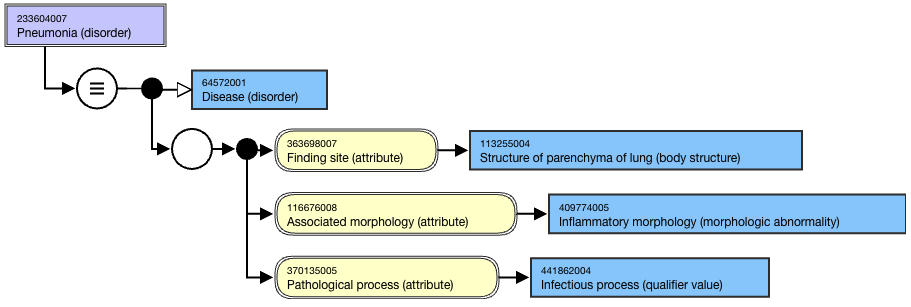
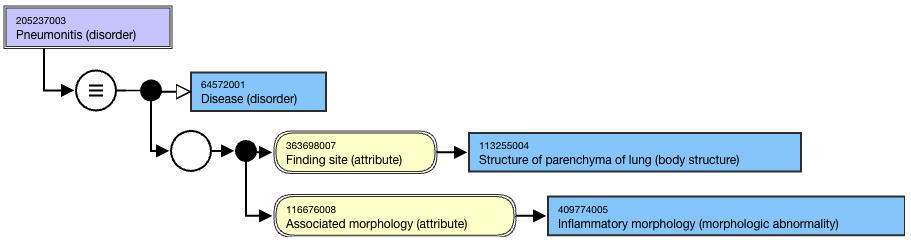
GITBOOK-128: No subject

diff --git a/readme/authoring/general-modeling/proximal-primitive-modeling.md b/readme/authoring/general-modeling/proximal-primitive-modeling.md
@@ -25,7 +25,7 @@ The classifier infers all appropriate proximal supertypes. With sufficiently def
 
       [71388002 | Procedure (procedure)|](http://snomed.info/id/71388002). It has been modeled with one stated supertype and two attribute value pairs in a relationship group.
 
-<figure><img src="../../../.gitbook/assets/image (1) (1) (1) (1) (1) (1) (1).png" alt=""><figcaption><p>Stated view of<a href="http://snomed.info/id/702499000">702499000 | Computed tomography of humerus (procedure)|</a></p></figcaption></figure>
+<figure><img src="../../../.gitbook/assets/image (1) (1) (1) (1) (1) (1) (1) (1).png" alt=""><figcaption><p>Stated view of<a href="http://snomed.info/id/702499000">702499000 | Computed tomography of humerus (procedure)|</a></p></figcaption></figure>
 
 The _inferred_ view shows the logical definition of the concept. By using the stated relationships (for this concept and other concepts currently in the terminology), the classifier infers three defined proximal supertypes:
 
@@ -33,7 +33,7 @@ The _inferred_ view shows the logical definition of the concept. By using the st
 * Computed tomography of upper arm (procedure)
 * Computed tomography of bone (procedure)
 
-<figure><img src="../../../.gitbook/assets/image (1) (1) (1) (1) (1) (1) (1) (1).png" alt=""><figcaption><p>Inferred view of <a href="http://snomed.info/id/702499000">702499000 | Computed tomography of humerus (procedure)|</a></p></figcaption></figure>
+<figure><img src="../../../.gitbook/assets/image (1) (1) (1) (1) (1) (1) (1) (1) (1).png" alt=""><figcaption><p>Inferred view of <a href="http://snomed.info/id/702499000">702499000 | Computed tomography of humerus (procedure)|</a></p></figcaption></figure>
 
 ### Multiple potential primitive supertype concepts <a href="#multiple-potential-primitive-supertype-concepts" id="multiple-potential-primitive-supertype-concepts"></a>
 

diff --git a/readme/authoring/domain-specific-modeling/clinical-finding-and-disorder/clinical-finding-and-disorder-modeling/specific-clinical-finding-and-disorder-modeling/pneumonia-vs-pneumonitis.md b/readme/authoring/domain-specific-modeling/clinical-finding-and-disorder/clinical-finding-and-disorder-modeling/specific-clinical-finding-and-disorder-modeling/pneumonia-vs-pneumonitis.md
@@ -8,11 +8,11 @@ Some concepts may contain a synonym with the other _pneumoni_ - term due to high
 
 Pneumonia is a type of pneumonitis, as inflammation is present in both. The distinguishing feature between the two disorders is the presence of infection in pneumonia. Pneumonia has a Pathological process (attribute) of Infectious process (qualifier value); Pneumonitis does not.
 
-<figure><img src="../../../../../../.gitbook/assets/image.png" alt=""><figcaption></figcaption></figure>
+<figure><img src="../../../../../../.gitbook/assets/image (1).png" alt=""><figcaption></figcaption></figure>
 
 <figure><img src="../../../../../../authoring/clinical-finding-and-disorder/images/225051456.png" alt=""><figcaption><p>Figure:  Stated view of 205237003 |Pneumonitis (disorder)|</p></figcaption></figure>
 
-<figure><img src="../../../../../../.gitbook/assets/image (1).png" alt=""><figcaption></figcaption></figure>
+<figure><img src="../../../../../../.gitbook/assets/image (1) (1).png" alt=""><figcaption></figcaption></figure>
 
 <figure><img src="../../../../../../authoring/clinical-finding-and-disorder/images/225051457.png" alt=""><figcaption><p>Figure:  Stated view of 233604007 |Pneumonia (disorder)|</p></figcaption></figure>
 

diff --git a/readme/authoring/domain-specific-modeling/clinical-finding-and-disorder/clinical-finding-and-disorder-modeling/specific-clinical-finding-and-disorder-modeling/infectious-vs-inflammatory.md b/readme/authoring/domain-specific-modeling/clinical-finding-and-disorder/clinical-finding-and-disorder-modeling/specific-clinical-finding-and-disorder-modeling/infectious-vs-inflammatory.md
@@ -26,6 +26,6 @@ Example of inflammatory disorder _not_ specified as infectious,
 
 [446292002 |Necrotizing inflammation of lymph node (disorder)|](http://snomed.info/id/446292002) (synonym, Necrotizing lymphadenitis) does not specify an infective cause, so it is neither modeled with Causative agent nor Pathological process. The model contains an [|Associated morphology (attribute)|](http://snomed.org/-fictid) and a [|Finding site (attribute)|](http://snomed.org/-fictid).
 
-<figure><img src="../../../../../../.gitbook/assets/image (1) (1).png" alt=""><figcaption></figcaption></figure>
+<figure><img src="../../../../../../.gitbook/assets/image (1) (1) (1).png" alt=""><figcaption></figcaption></figure>
 
 <figure><img src="../../../../../../authoring/clinical-finding-and-disorder/images/174690496.png" alt=""><figcaption><p>Figure: Stated view of 446292002 |Necrotizing inflammation of lymph node (disorder)|</p></figcaption></figure>

diff --git a/readme/authoring/domain-specific-modeling/clinical-finding-and-disorder/clinical-finding-and-disorder-modeling/specific-clinical-finding-and-disorder-modeling/substance-withdrawal-syndrome.md b/readme/authoring/domain-specific-modeling/clinical-finding-and-disorder/clinical-finding-and-disorder-modeling/specific-clinical-finding-and-disorder-modeling/substance-withdrawal-syndrome.md
@@ -8,6 +8,8 @@ For example,
 
 Stated view of 74934004 |Psychoactive substance withdrawal syndrome (disorder)|:
 
-<figure><img src="../../../../../../authoring/clinical-finding-and-disorder/images/174690559.png" alt=""><figcaption><p>Inferred view of 74934004 |Psychoactive substance withdrawal syndrome (disorder)|:</p></figcaption></figure>
+<figure><img src="../../../../../../.gitbook/assets/image.png" alt=""><figcaption></figcaption></figure>
 
-<figure><img src="../../../../../../authoring/clinical-finding-and-disorder/images/174690558.png" alt=""><figcaption></figcaption></figure>
+Inferred view of 74934004 |Psychoactive substance withdrawal syndrome (disorder)|:
+
+<figure><img src="../../../../../../.gitbook/assets/image (48).png" alt=""><figcaption></figcaption></figure>

diff --git a/readme/authoring/domain-specific-modeling/body-structure/index-1/index/anatomy-relating-to-the-spine.md b/readme/authoring/domain-specific-modeling/body-structure/index-1/index/anatomy-relating-to-the-spine.md
@@ -18,7 +18,7 @@ The last concept has been allocated the following definition: This volume includ
 
 To emphasize the different volumes, cross-sections are shown below of (Figure 1) the vertebral column in yellow, and (Figure 2) the larger vertebral column region in amber color.
 
-<figure><img src="../../../../../../.gitbook/assets/image (1) (1) (1) (1) (1).png" alt=""><figcaption><p>Figure 1, Vertebral column</p></figcaption></figure>
+<figure><img src="../../../../../../.gitbook/assets/image (1) (1) (1) (1) (1) (1).png" alt=""><figcaption><p>Figure 1, Vertebral column</p></figcaption></figure>
 
 <figure><img src="../../../../../../.gitbook/assets/image (3) (1).png" alt=""><figcaption><p>Figure 2, Vertebral column region</p></figcaption></figure>
 

diff --git a/readme/authoring/general-naming-conventions/descriptions/definition.md b/readme/authoring/general-naming-conventions/descriptions/definition.md
@@ -30,7 +30,7 @@ For example,
 
 <figure><img src="../../../../authoring/general-naming-conventions/descriptions/images/265618742.png" alt=""><figcaption></figcaption></figure>
 
-<figure><img src="../../../../.gitbook/assets/image (1) (1) (1) (1) (1) (1).png" alt=""><figcaption><p>Definition of 1332358007 |Full schwannomatosis (disorder)| with US and GB English acceptability values.</p></figcaption></figure>
+<figure><img src="../../../../.gitbook/assets/image (1) (1) (1) (1) (1) (1) (1).png" alt=""><figcaption><p>Definition of 1332358007 |Full schwannomatosis (disorder)| with US and GB English acceptability values.</p></figcaption></figure>
 
 ## Consideration for text definition
 

diff --git a/readme/authoring/domain-specific-modeling/clinical-finding-and-disorder/clinical-finding-and-disorder-modeling/specific-clinical-finding-and-disorder-modeling/combining-morphologic-abnormalities.md b/readme/authoring/domain-specific-modeling/clinical-finding-and-disorder/clinical-finding-and-disorder-modeling/specific-clinical-finding-and-disorder-modeling/combining-morphologic-abnormalities.md
@@ -17,4 +17,4 @@ Instead of modeling as in this stated view:
 
 Model as shown in this stated view:
 
-<figure><img src="../../../../../../.gitbook/assets/image (1) (1) (1) (1).png" alt=""><figcaption></figcaption></figure>
+<figure><img src="../../../../../../.gitbook/assets/image (1) (1) (1) (1) (1).png" alt=""><figcaption></figcaption></figure>
